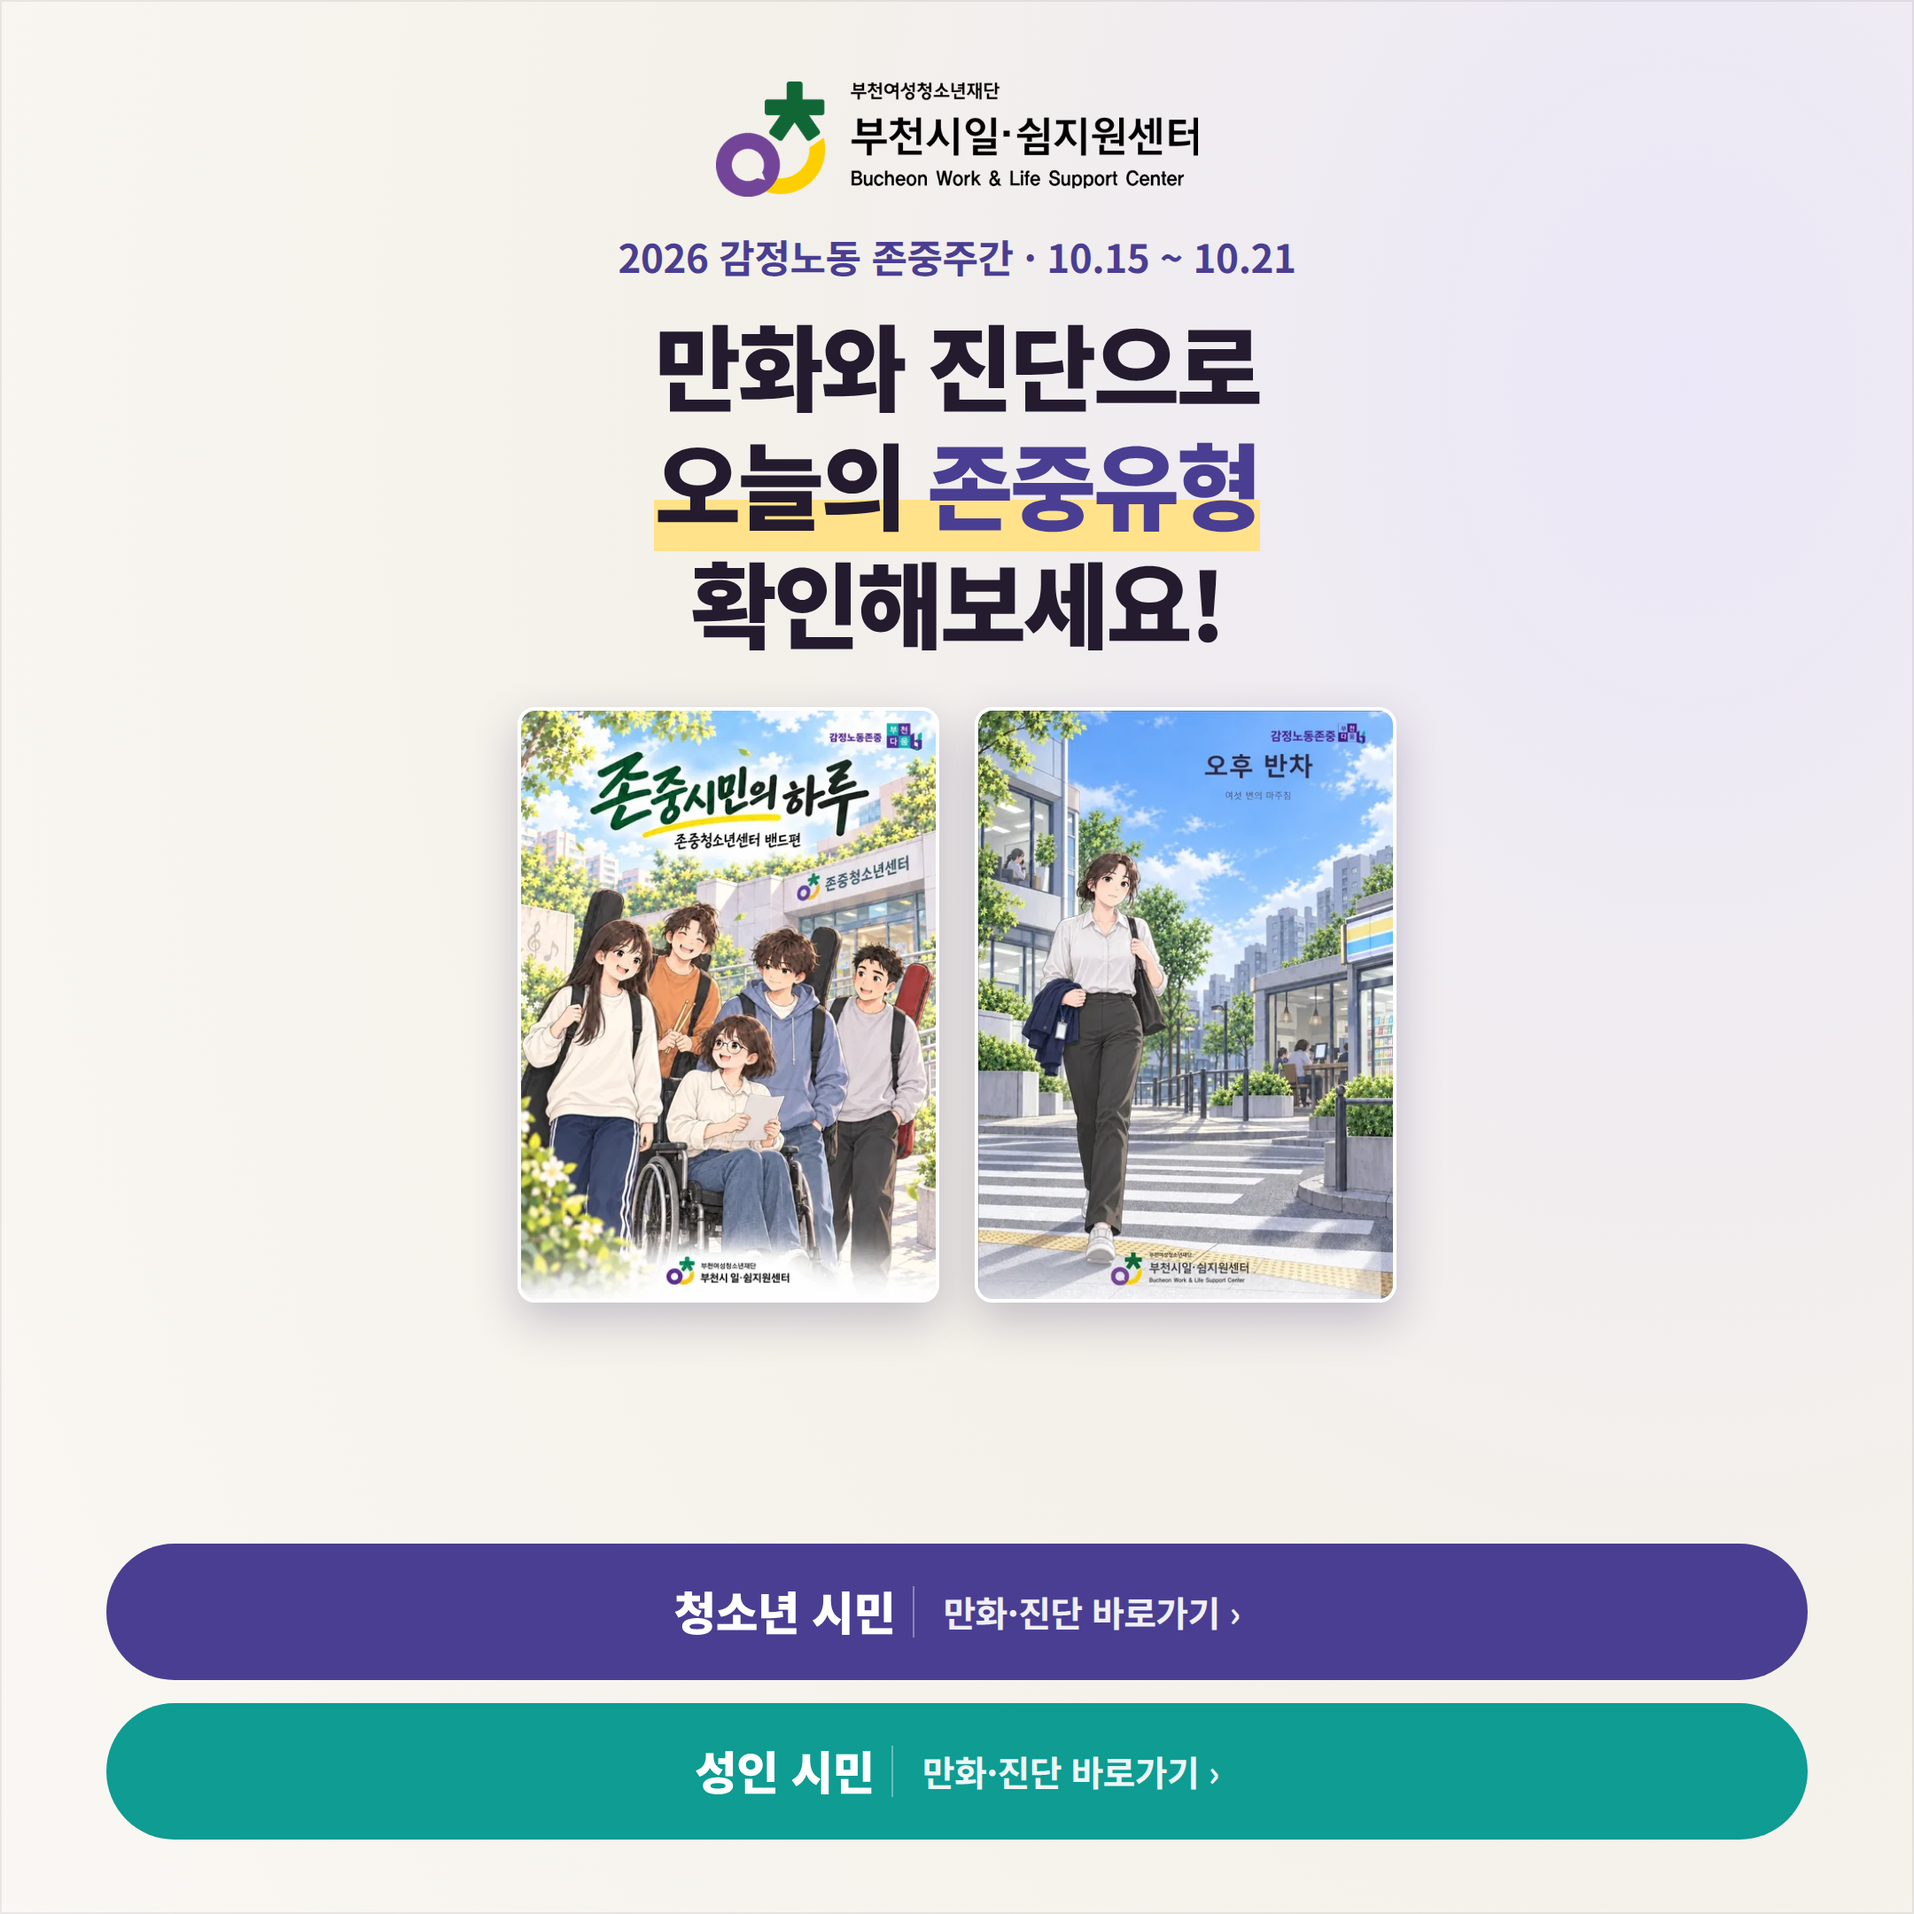
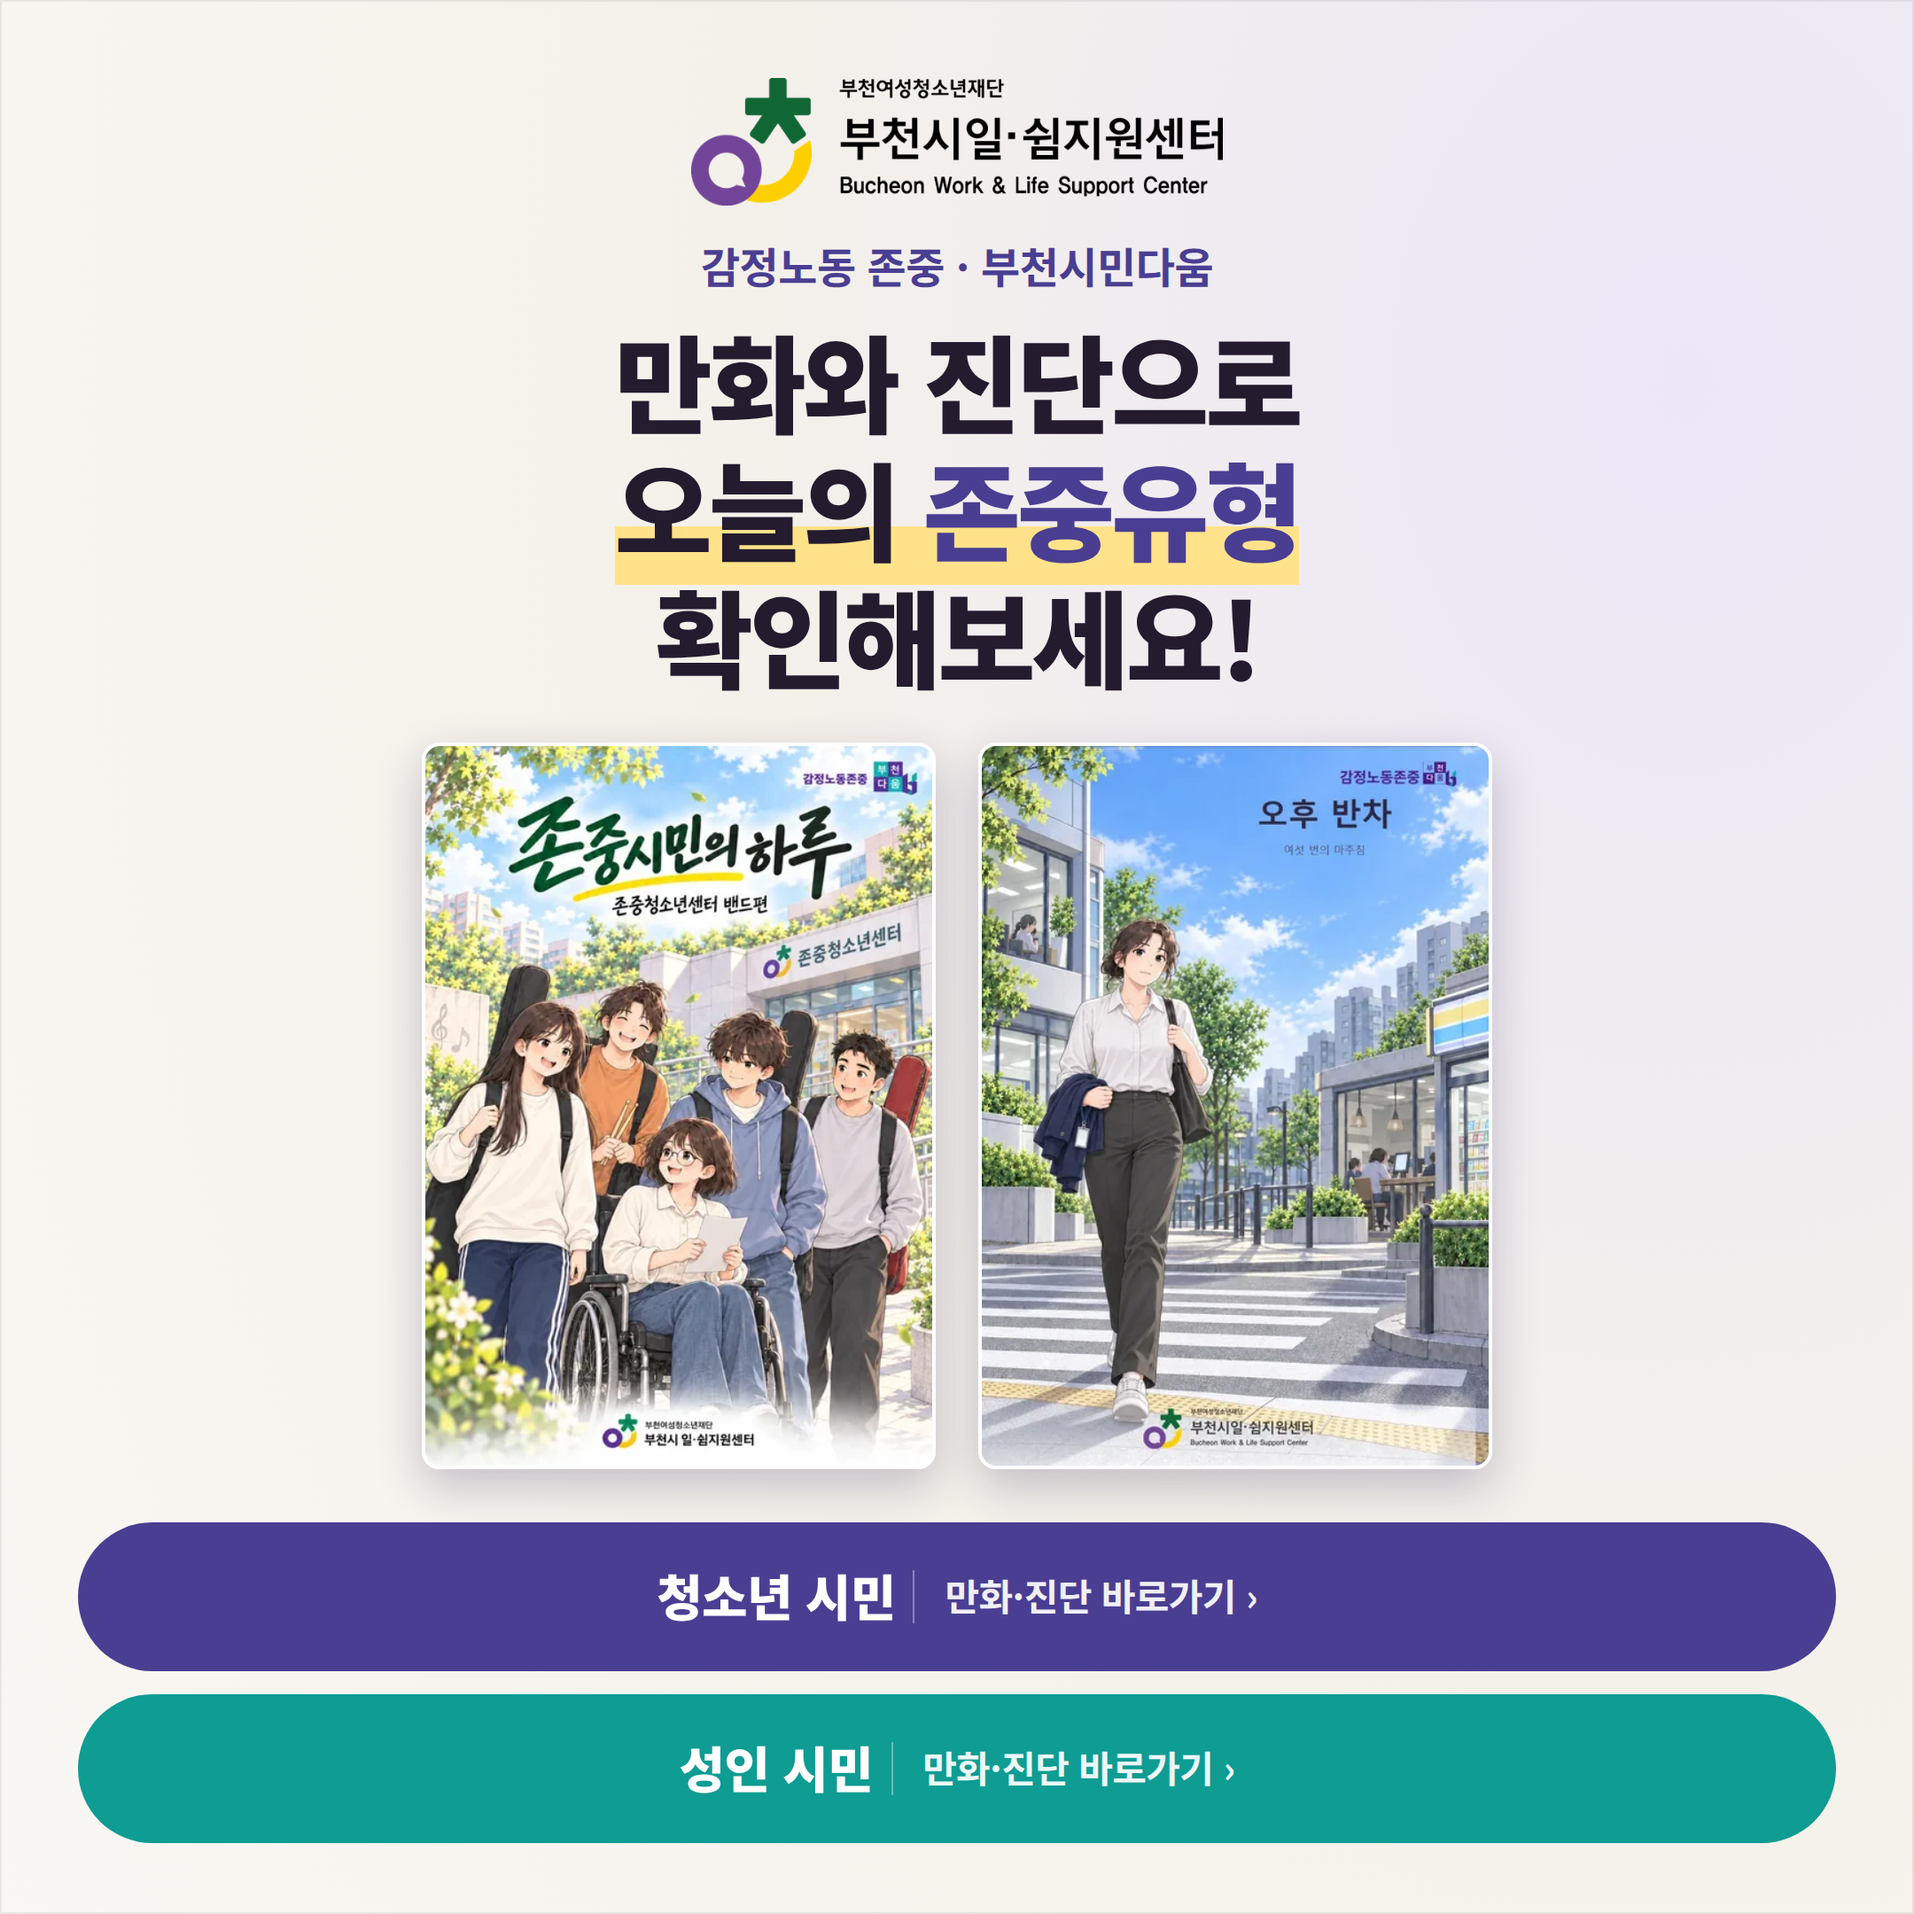
상시 사용 가능하도록 존중주간 날짜 삭제, 정사각 여백 조정
- 배너 11장과 /type 페이지에서 "2026 감정노동 존중주간 10.15~10.21" 삭제
  -> "감정노동 존중 · 부천시민다움" 으로 교체
- 페이지 꼬리말의 포럼·기념식 일정 블록 삭제
- 정사각 1080x1080 여백을 줄여 화면을 채우도록 조정

Claude-Session: https://claude.ai/code/session_01NXt7ZEpbXWExRBiNBNAuqF

Changed region(s): [[0.031, 0.031, 0.9616, 0.9616], [0.031, 0.8995, 0.0931, 0.9616]]

diff --git a/type/index.html b/type/index.html
@@ -4,11 +4,11 @@
 <meta charset="utf-8">
 <meta name="viewport" content="width=device-width,initial-scale=1,viewport-fit=cover">
 <meta name="theme-color" content="#4A3E92">
-<title>오늘의 존중유형 | 2026 감정노동 존중주간</title>
-<meta name="description" content="만화와 진단으로 오늘의 존중유형을 확인해 보세요. 2026 감정노동 존중주간 · 부천다움. 청소년용·성인용 웹툰과 존중유형 진단.">
+<title>오늘의 존중유형 | 감정노동 존중 부천다움</title>
+<meta name="description" content="만화와 진단으로 오늘의 존중유형을 확인해 보세요. 감정노동 존중 부천다움. 청소년 시민·성인 시민 웹툰과 존중유형 진단.">
 <meta property="og:type" content="website">
 <meta property="og:title" content="오늘의 존중유형 확인해보세요">
-<meta property="og:description" content="만화와 진단으로 — 2026 감정노동 존중주간 · 부천다움">
+<meta property="og:description" content="만화와 진단으로 — 감정노동 존중 부천다움">
 <meta property="og:image" content="https://respect-week.vercel.app/type/og.jpg">
 <meta property="og:url" content="https://respect-week.vercel.app/type/">
 <meta name="twitter:card" content="summary_large_image">
@@ -116,7 +116,7 @@
 
 <header class="top">
   <div class="top-in">
-    <span class="badge">2026 감정노동 존중주간 · 10.15 ~ 10.21</span>
+    <span class="badge">감정노동 존중 · 부천시민다움</span>
     <h1>만화와 진단으로<br><em>오늘의 존중유형</em> 확인해보세요!</h1>
     <p class="lead">청소년용과 성인용이 따로 있습니다. 만화부터 봐도 되고, 진단부터 해도 됩니다.</p>
   </div>
@@ -158,20 +158,15 @@
       <b class="big">존댓말은 기본, 정중함은 품격</b>
       일하는 사람 둘 가운데 한 명이 감정노동자인 도시, 부천. 감정노동은 특별한 누군가의 일이 아니라
       <b>우리가 매일 주고받는 이야기</b>입니다. 오전에는 일하는 사람이고, 오후에는 손님입니다.
-      서로를 존중하는 마음이 당연한 일상이 되도록 한 주를 함께 보냅니다.
+      서로를 존중하는 마음이 당연한 일상이 되도록 부천이 함께 만들어갑니다.
     </p>
   </section>
 
   <footer class="foot">
-    <p class="when">
-      <span>📅 부천다움 포럼 10.15.(목) 14:30</span>
-      <span>🎉 기념식 10.15.(목) 16:00</span>
-      <span>📍 부천시일쉼지원센터 다목적실</span>
-    </p>
     <img src="logo.png" alt="부천여성청소년재단 부천시일·쉼지원센터" width="720" height="172">
     <p class="org">
       공동주관 · 부천상공회의소 · 부천시일쉼지원센터 · 한국노총 부천김포지역지부<br>
-      문의 032-323-1203 · <a href="/">존중주간 참여 안내</a>
+      문의 032-323-1203 · <a href="/">부천다움 알아보기</a>
     </p>
   </footer>
 </div>
